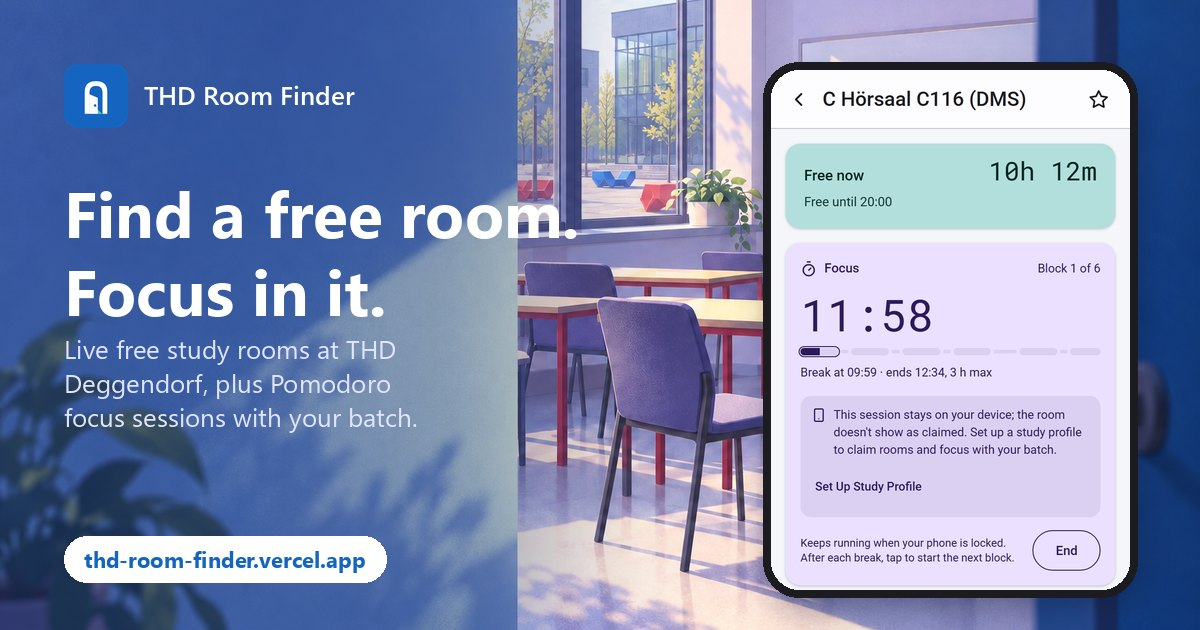
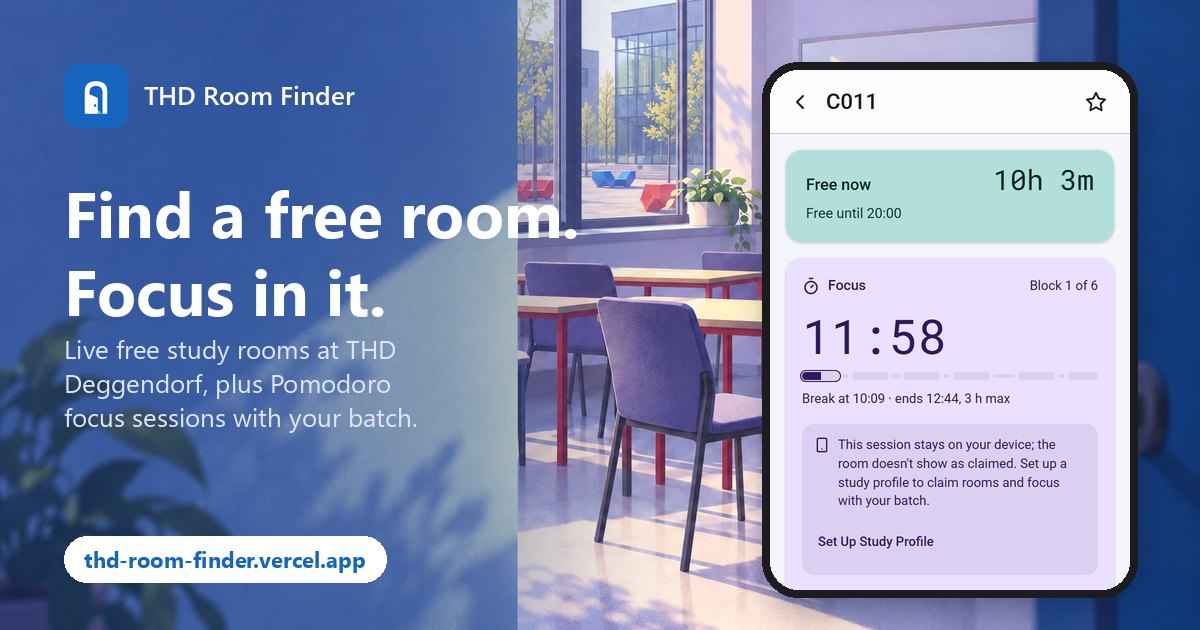
feat(app): show the c011 focus block in the link preview image
- Same image as the landing page's og:image after it moved to the
  Galaxy A55 screenshots of room C011

Refs #88

diff --git a/index.html b/index.html
@@ -25,7 +25,7 @@
     <meta property="og:image:height" content="630" />
     <meta
       property="og:image:alt"
-      content="THD Room Finder: an illustrated THD seminar room next to the app showing a running Pomodoro focus block."
+      content="THD Room Finder: an illustrated THD seminar room next to the app showing a running Pomodoro focus block in room C011."
     />
     <meta name="twitter:card" content="summary_large_image" />
     <meta name="twitter:image" content="https://thd-room-finder.vercel.app/og.jpg" />
